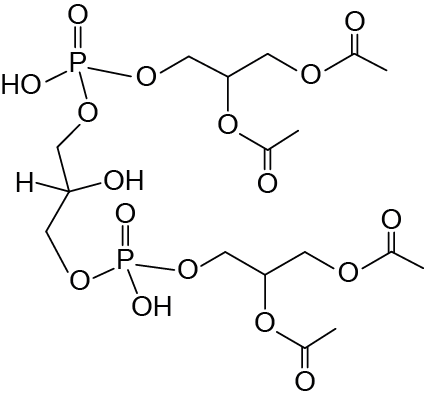
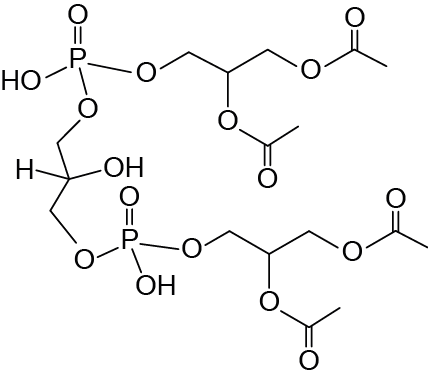
changed the cardiolipin backbone image

diff --git a/LipidCreator/CreatorGUI.Designer.cs b/LipidCreator/CreatorGUI.Designer.cs
@@ -1119,7 +1119,7 @@ namespace LipidCreator
             
 
             clPictureBox.Image = cardioBackboneImage;
-            clPictureBox.Location = new Point(5, 15);
+            clPictureBox.Location = new Point(5, 20);
             clPictureBox.SizeMode = PictureBoxSizeMode.AutoSize;
             clPictureBox.SendToBack();
             
@@ -1258,7 +1258,7 @@ namespace LipidCreator
 
             clFA3Combobox.BringToFront();
             clFA3Textbox.BringToFront();
-            clFA3Textbox.Location = new Point(436, 270);
+            clFA3Textbox.Location = new Point(440, 256);
             clFA3Textbox.Width = faLength;
             clFA3Textbox.TextChanged += new EventHandler(clFA3TextboxValueChanged);
             toolTip.SetToolTip(clFA3Textbox, formattingFA);
@@ -1309,7 +1309,7 @@ namespace LipidCreator
 
             clFA4Combobox.BringToFront();
             clFA4Textbox.BringToFront();
-            clFA4Textbox.Location = new Point(350, 354);
+            clFA4Textbox.Location = new Point(352, 336);
             clFA4Textbox.Width = faLength;
             clFA4Textbox.TextChanged += new EventHandler(clFA4TextboxValueChanged);
             toolTip.SetToolTip(clFA4Textbox, formattingFA);

diff --git a/LipidCreator/CreatorGUI.cs b/LipidCreator/CreatorGUI.cs
@@ -2593,7 +2593,7 @@ namespace LipidCreator
                 else if (currentRegisteredLipid is Mediator)
                 {
                     Mediator currentMedLipid = (Mediator)currentRegisteredLipid;
-                    row["Building Block 1"] = "HG: " + String.Join(", ", currentMedLipid.headGroupNames);
+                    row["Building Block 1"] = String.Join(", ", currentMedLipid.headGroupNames);
                     row["Category"] = "Mediator";
                 }
                 
